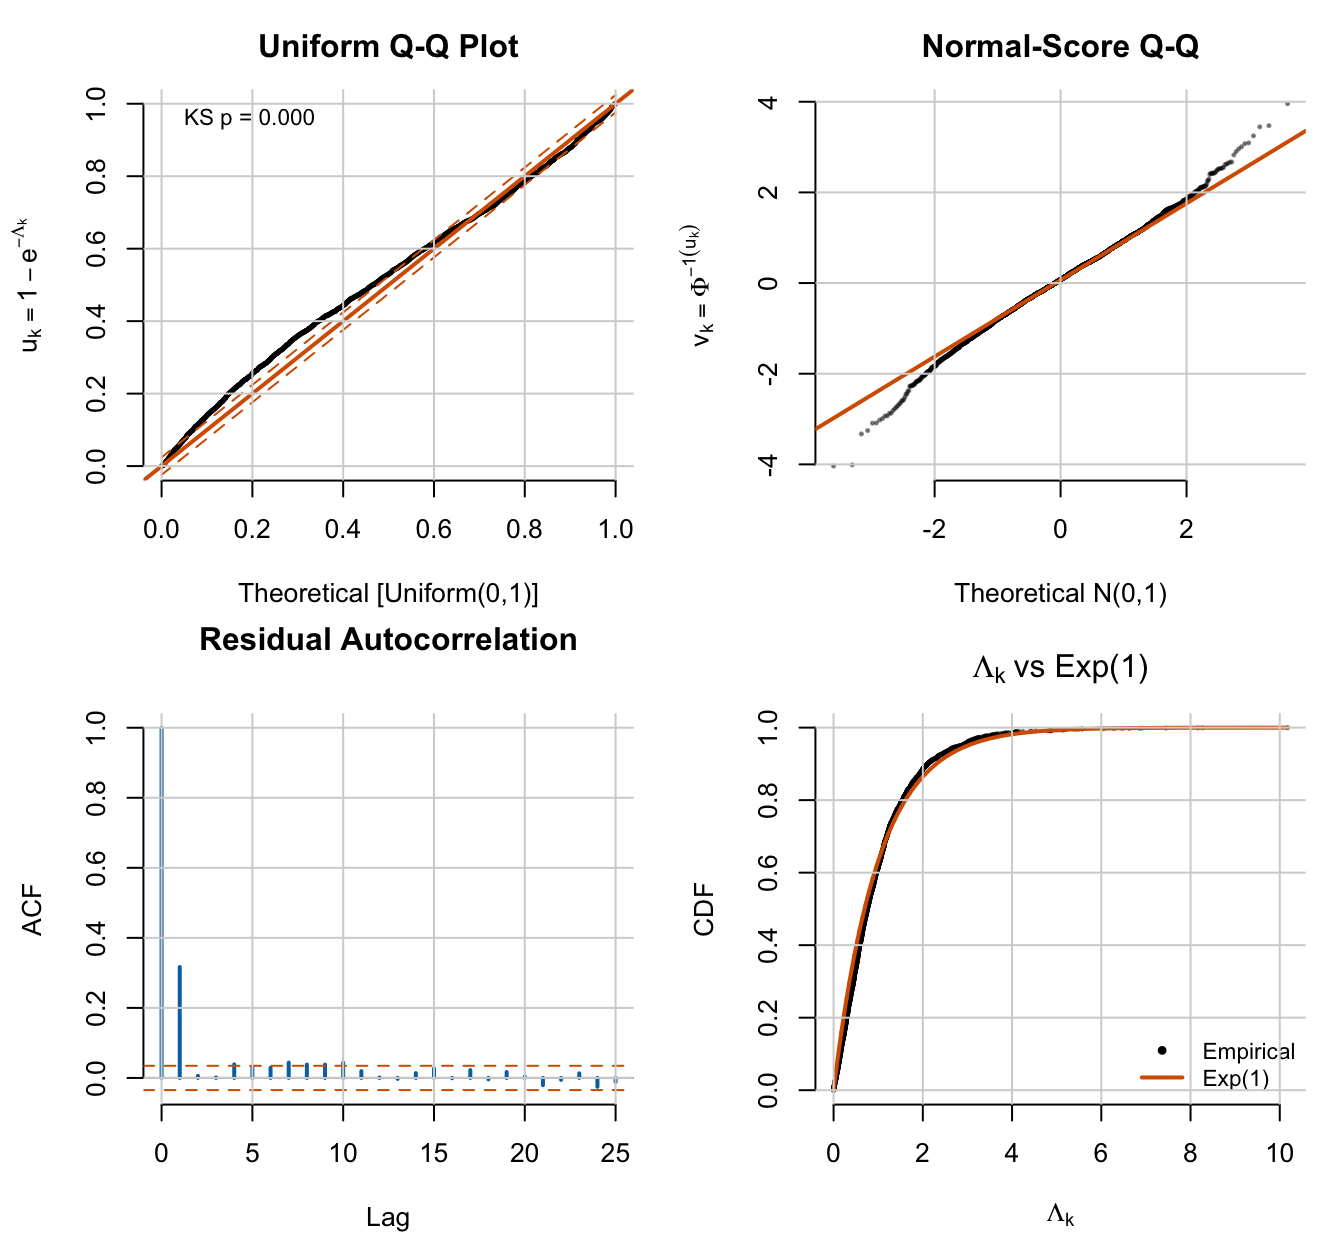
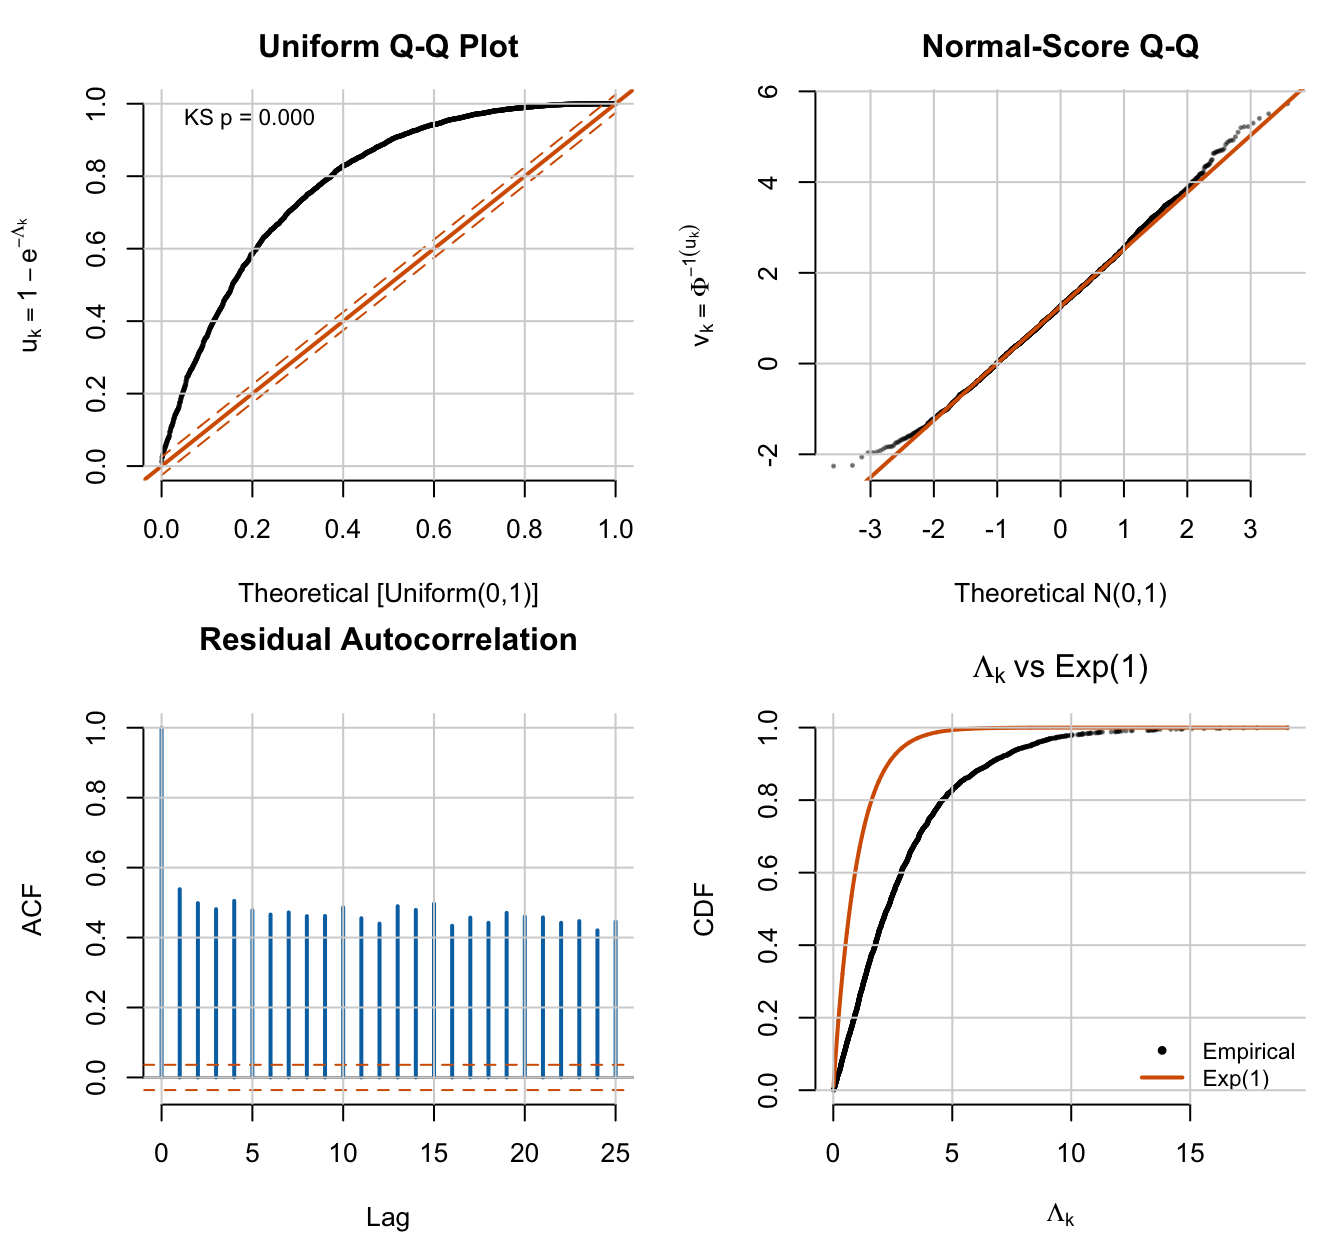
-

diff --git a/_site/index.html b/_site/index.html
@@ -857,7 +857,7 @@ P \;=\; -\text{expm1}\!\bigl(\log S(\tau + \Delta t) - \log S(\tau)\bigr),
 <div class="cell">
 <details class="code-fold">
 <summary>Code</summary>
-<div class="sourceCode cell-code" id="cb7"><pre class="sourceCode r code-with-copy"><code class="sourceCode r"><span id="cb7-1"><a href="#cb7-1" aria-hidden="true" tabindex="-1"></a>fs <span class="ot">&lt;-</span> <span class="fu">study_firing_bias</span>(<span class="at">mu =</span> <span class="fl">0.85</span>, <span class="at">kappa =</span> <span class="dv">12</span>, <span class="at">dt =</span> <span class="fl">0.005</span>)</span>
+<div class="sourceCode cell-code" id="cb7"><pre class="sourceCode r code-with-copy"><code class="sourceCode r"><span id="cb7-1"><a href="#cb7-1" aria-hidden="true" tabindex="-1"></a>fs <span class="ot">&lt;-</span> <span class="fu">study_firing_bias</span>(<span class="at">mu =</span> <span class="fl">0.85</span>, <span class="at">kappa =</span> <span class="dv">12</span>, <span class="at">dt =</span> <span class="fl">0.005</span>, <span class="at">tau_range =</span> <span class="fu">c</span>(<span class="dv">0</span>,<span class="dv">2</span>))</span>
 <span id="cb7-2"><a href="#cb7-2" aria-hidden="true" tabindex="-1"></a></span>
 <span id="cb7-3"><a href="#cb7-3" aria-hidden="true" tabindex="-1"></a><span class="fu">par</span>(<span class="at">mfrow =</span> <span class="fu">c</span>(<span class="dv">1</span>, <span class="dv">2</span>), <span class="at">mar =</span> <span class="fu">c</span>(<span class="fl">4.5</span>, <span class="dv">5</span>, <span class="fl">2.5</span>, <span class="dv">1</span>))</span>
 <span id="cb7-4"><a href="#cb7-4" aria-hidden="true" tabindex="-1"></a></span>
@@ -1020,15 +1020,15 @@ Table&nbsp;2: Fisher information matrix diagnostics. Information values are repo
 </tr>
 <tr class="odd">
 <td style="text-align: left;">IG observations <span class="math inline">\((\log\mu_0,\, \log\kappa)\)</span></td>
-<td style="text-align: left;">4.20e+05</td>
-<td style="text-align: left;">1.60e+03</td>
-<td style="text-align: left;">2.62e+02</td>
+<td style="text-align: left;">4.14e+05</td>
+<td style="text-align: left;">1.47e+03</td>
+<td style="text-align: left;">2.80e+02</td>
 </tr>
 <tr class="even">
 <td style="text-align: left;">Full <span class="math inline">\(6 \times 6\)</span> matrix</td>
-<td style="text-align: left;">4.20e+05</td>
-<td style="text-align: left;">1.60e+03</td>
-<td style="text-align: left;">2.63e+02</td>
+<td style="text-align: left;">4.14e+05</td>
+<td style="text-align: left;">1.47e+03</td>
+<td style="text-align: left;">2.81e+02</td>
 </tr>
 </tbody>
 </table>
@@ -1113,19 +1113,19 @@ Table&nbsp;3: Numerical summary of the Monte Carlo recovery study. True values, 
 <tr class="odd">
 <td style="text-align: left;"><span class="math inline">\(\mu_0\)</span></td>
 <td style="text-align: left;">0.850</td>
-<td style="text-align: left;">0.796</td>
-<td style="text-align: left;">-0.0540</td>
-<td style="text-align: left;">-6.35%</td>
-<td style="text-align: left;">0.0549</td>
+<td style="text-align: left;">0.906</td>
+<td style="text-align: left;">0.0555</td>
+<td style="text-align: left;">6.53%</td>
+<td style="text-align: left;">0.0564</td>
 <td style="text-align: left;">0.0%</td>
 </tr>
 <tr class="even">
 <td style="text-align: left;"><span class="math inline">\(\kappa\)</span></td>
 <td style="text-align: left;">12.000</td>
-<td style="text-align: left;">6.336</td>
-<td style="text-align: left;">-5.6638</td>
-<td style="text-align: left;">-47.20%</td>
-<td style="text-align: left;">5.8034</td>
+<td style="text-align: left;">8.265</td>
+<td style="text-align: left;">-3.7346</td>
+<td style="text-align: left;">-31.12%</td>
+<td style="text-align: left;">3.8496</td>
 <td style="text-align: left;">0.0%</td>
 </tr>
 <tr class="odd">
@@ -1409,22 +1409,22 @@ Table&nbsp;4: Summary statistics for the time-rescaling residuals. A correctly s
 <tr class="odd">
 <td style="text-align: left;"><span class="math inline">\(\text{E}[\Lambda_k]\)</span></td>
 <td style="text-align: center;">1.000</td>
-<td style="text-align: center;">1.0038</td>
+<td style="text-align: center;">2.9660</td>
 </tr>
 <tr class="even">
 <td style="text-align: left;"><span class="math inline">\(\text{Var}(\Lambda_k)\)</span></td>
 <td style="text-align: center;">1.000</td>
-<td style="text-align: center;">0.8693</td>
+<td style="text-align: center;">6.7723</td>
 </tr>
 <tr class="odd">
 <td style="text-align: left;"><span class="math inline">\(\text{E}[u_k]\)</span></td>
 <td style="text-align: center;">0.500</td>
-<td style="text-align: center;">0.5209</td>
+<td style="text-align: center;">0.7843</td>
 </tr>
 <tr class="even">
 <td style="text-align: left;">KS statistic</td>
 <td style="text-align: center;">—</td>
-<td style="text-align: center;">0.0605</td>
+<td style="text-align: center;">0.4312</td>
 </tr>
 <tr class="odd">
 <td style="text-align: left;">KS <span class="math inline">\(p\)</span>-value</td>
@@ -1434,7 +1434,7 @@ Table&nbsp;4: Summary statistics for the time-rescaling residuals. A correctly s
 <tr class="even">
 <td style="text-align: left;">Significant ACF lags (of 20)</td>
 <td style="text-align: center;">0</td>
-<td style="text-align: center;">6</td>
+<td style="text-align: center;">20</td>
 </tr>
 </tbody>
 </table>
